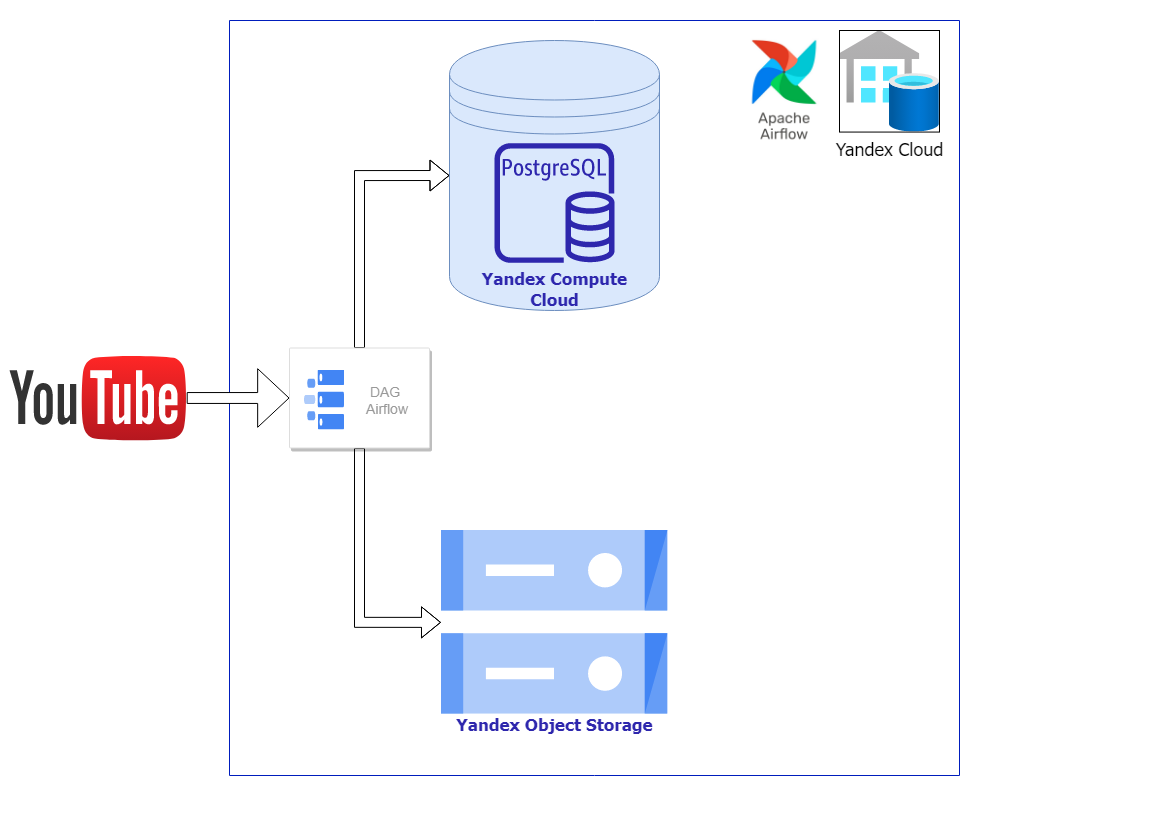
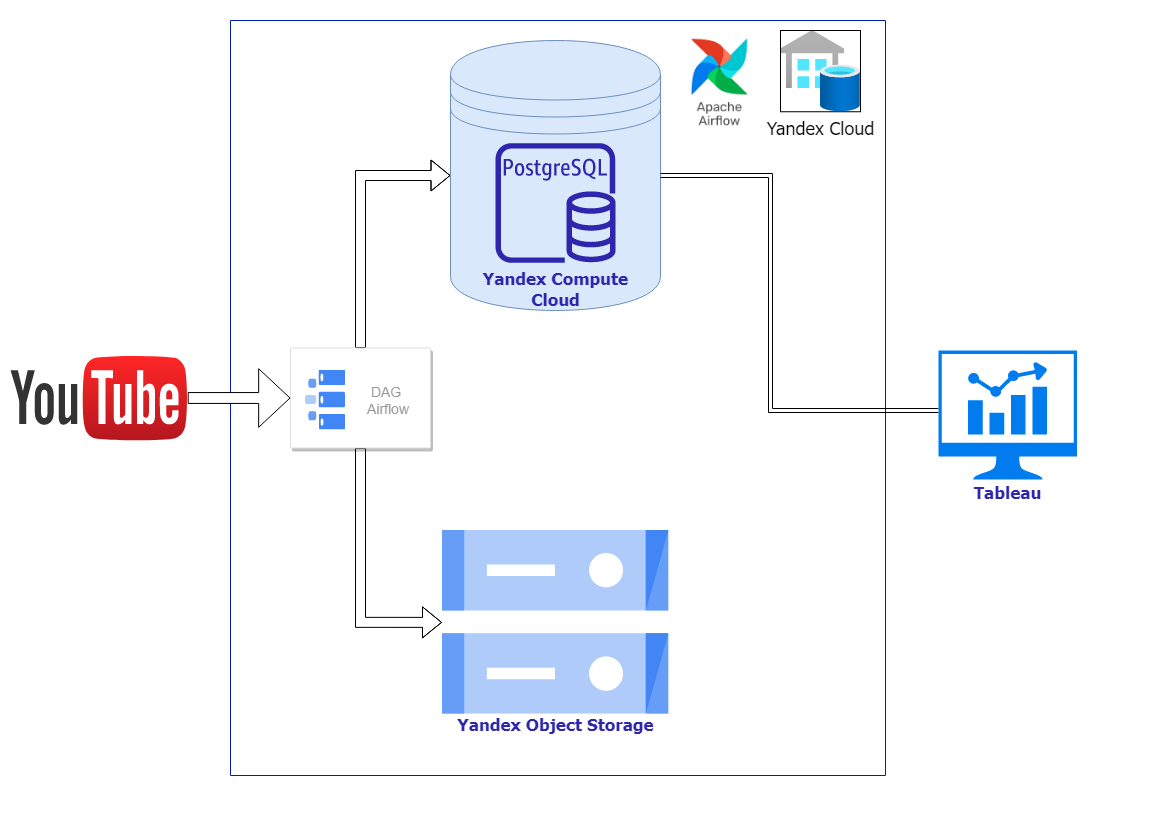
Fix df, fix init value, add Tableau

diff --git a/dag_youtube_s3_pd.py b/dag_youtube_s3_pd.py
@@ -12,7 +12,7 @@ from airflow.providers.amazon.aws.hooks.s3 import S3Hook
 dag = DAG(
     dag_id='dag_tr_youtube_s3_pd.py',
     default_args={'owner': 'aiflow'},
-    schedule_interval='0 10 * * *',
+    schedule_interval='0 5 * * *',
     start_date=days_ago(1)
 )
 
@@ -37,16 +37,16 @@ def extract_youtube(**context):
 
     youtube_df = pd.DataFrame(columns=['date_extract', 'video_id', 'title', 'description', 'view_count', 'like_count', 'comment_count',
                                        'time_published', 'channel_id', 'channel_title'])
-    search_params = {'q': 'Stand up',  # Request to youtube
+    search_params = {'q': 'мультики для малышей',  # Request to youtube
                      'part': 'snippet',
                      'regionCode': 'RU',  # Return search results for videos that can be viewed in the specified country
-                     'maxResults': 5}  # Max videos in result
+                     'maxResults': 50}  # Max videos in result. Acceptable values are 0 to 50
     DEVELOPER_KEY = Variable.get('DEVELOPER_KEY')
     YOUTUBE_API_SERVICE_NAME = 'youtube'
     YOUTUBE_API_VERSION = 'v3'
     date_extract = context['ds']
 
-    for i in range(1):  # Choose how many pages to extract
+    for i in range(20):  # Choose how many pages to extract
         search_result = youtube_search(search_params)
 
         for item in search_result['items']:
@@ -83,7 +83,10 @@ def extract_youtube(**context):
                 'channel_title': channel_title},
                 ignore_index=True)
 
-        search_params['pageToken'] = search_result['nextPageToken']
+        try:
+            search_params['pageToken'] = search_result['nextPageToken']
+        except KeyError:
+            break
 
     context['ti'].xcom_push(key='youtube_df', value=youtube_df)
 
@@ -104,12 +107,14 @@ def load_df_postgres(**context):
     df = context['ti'].xcom_pull(task_ids='extract_youtube', key='youtube_df')
     pd.set_option('display.max_columns', None)
     print(df.head(5))
+    print(df.shape)
 
     df.dropna(subset=['video_id', 'channel_id'], inplace=True)
     df.fillna({'comment_count': 0,
                'view_count': 0,
                'like_count': 0},
               inplace=True)
+    df.drop_duplicates(subset='video_id', inplace=True)
 
     pg_conn.insert_rows(table='youtube',
                         rows=df.values.tolist(),
@@ -136,10 +141,11 @@ t4 = PostgresOperator(task_id='load_business',
                     SELECT DISTINCT(channel_id), channel_title
                     FROM public.youtube
                     WHERE channel_id NOT IN (SELECT channel_id
-                                            FROM business.channels);
+                                            FROM business.channels)
+                    ON CONFLICT DO NOTHING;
 
                     INSERT INTO business.videos
-                    SELECT rank, video_id, title, description, view_count, like_count, comment_count, time_published, channel_id
+                    SELECT rank, date_extract, video_id, title, description, view_count, like_count, comment_count, time_published, channel_id
                     FROM public.youtube;
                     ''')
 

diff --git a/dag_create_tables_youtube.py b/dag_create_tables_youtube.py
@@ -16,7 +16,7 @@ with DAG('create_tables_youtube',
                         video_id text NOT NULL,
                         title text NULL,
                         description text NULL,
-                        view_count int4 NULL,
+                        view_count bigint NULL,
                         like_count int4 NULL,
                         comment_count int4 NULL,
                         time_published timestamp NULL,
@@ -31,10 +31,11 @@ with DAG('create_tables_youtube',
                         DROP TABLE IF EXISTS business.videos;
                         CREATE TABLE business.videos (
                         rank INT,
+                        date_extract timestamp NOT NULL,
                         video_id TEXT NOT NULL,
                         title TEXT,
                         description TEXT,
-                        view_count INT,
+                        view_count bigint,
                         like_count INT,
                         comment_count INT,
                         time_published TIMESTAMP,
